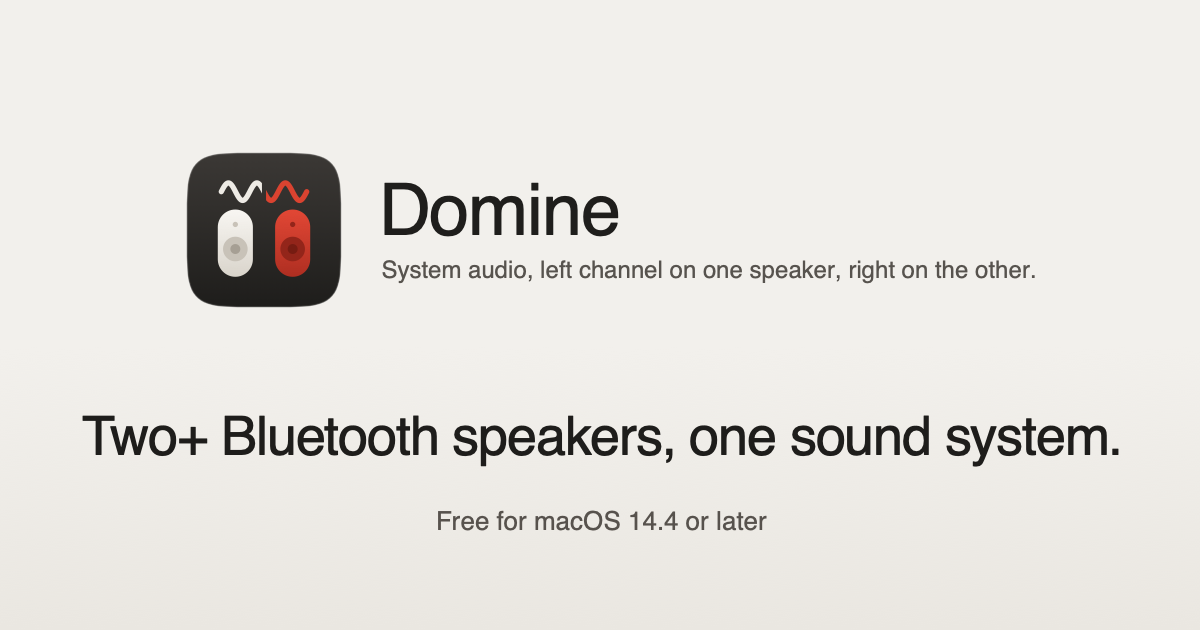
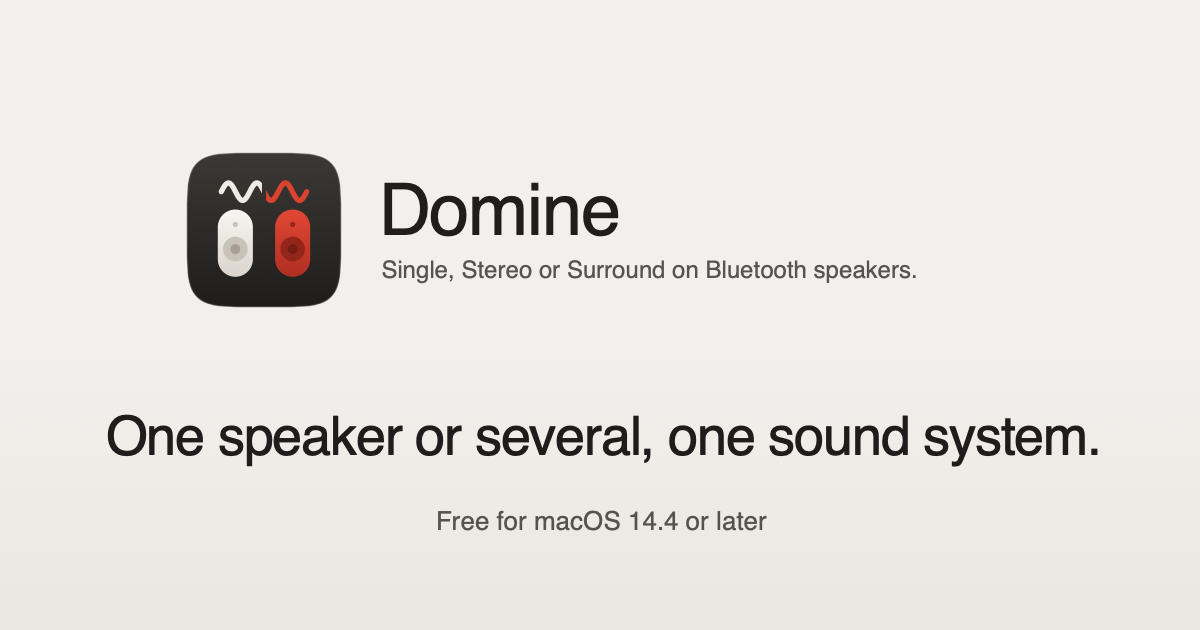
Site: covers Single mode, drops the 16-speaker line, names microphone calibration; preview image to match

Changed region(s): [[0.0617, 0.6333, 0.925, 0.754], [0.3083, 0.3921, 0.8633, 0.4524]]

diff --git a/site/index.html b/site/index.html
@@ -4,22 +4,22 @@
 <meta charset="utf-8">
 <meta name="viewport" content="width=device-width, initial-scale=1">
 <title>Domine</title>
-<meta name="description" content="Turn two or more Bluetooth speakers into one sound system for your Mac. Split audio left and right across two speakers, or place up to 16 around the room for surround.">
+<meta name="description" content="Play your Mac&#39;s audio on Bluetooth speakers: one speaker with volume boost and EQ, a left and right pair, or several around the room for surround.">
 <meta name="color-scheme" content="light dark">
 <link rel="icon" type="image/png" href="favicon.png">
 <link rel="canonical" href="https://ethan-ka.github.io/Domine/">
 <meta property="og:type" content="website">
 <meta property="og:site_name" content="Domine">
-<meta property="og:title" content="Domine: two+ Bluetooth speakers, one sound system">
-<meta property="og:description" content="Turn two or more Bluetooth speakers into one sound system for your Mac. Split audio left and right across two speakers, or place up to 16 around the room for surround.">
+<meta property="og:title" content="Domine: one Bluetooth speaker or several, one sound system">
+<meta property="og:description" content="Play your Mac&#39;s audio on Bluetooth speakers: one speaker with volume boost and EQ, a left and right pair, or several around the room for surround.">
 <meta property="og:url" content="https://ethan-ka.github.io/Domine/">
 <meta property="og:image" content="https://ethan-ka.github.io/Domine/og-image.png">
 <meta property="og:image:width" content="1200">
 <meta property="og:image:height" content="630">
-<meta property="og:image:alt" content="The Domine app icon and name above the line: Two+ Bluetooth speakers, one sound system.">
+<meta property="og:image:alt" content="The Domine app icon and name above the line: One speaker or several, one sound system.">
 <meta name="twitter:card" content="summary_large_image">
-<meta name="twitter:title" content="Domine: two+ Bluetooth speakers, one sound system">
-<meta name="twitter:description" content="Turn two or more Bluetooth speakers into one sound system for your Mac. Split audio left and right across two speakers, or place up to 16 around the room for surround.">
+<meta name="twitter:title" content="Domine: one Bluetooth speaker or several, one sound system">
+<meta name="twitter:description" content="Play your Mac&#39;s audio on Bluetooth speakers: one speaker with volume boost and EQ, a left and right pair, or several around the room for surround.">
 <meta name="twitter:image" content="https://ethan-ka.github.io/Domine/og-image.png">
 <style>
 :root{
@@ -88,8 +88,8 @@ a:focus-visible{outline:3px solid var(--focus); outline-offset:3px; border-radiu
       </div>
       <p class="note">macOS 14.4 or later</p>
       <div class="pitch">
-        <p class="claim">Two+ Bluetooth speakers, one sound system.</p>
-        <p class="sub">Split your Mac's audio left and right across two speakers, or place up to 16 around the room for surround. They stay in sync, and your volume keys control them all.</p>
+        <p class="claim">One Bluetooth speaker or several, one sound system.</p>
+        <p class="sub">Play everything on one speaker with a volume boost and EQ, split left and right across two, or place several around the room for surround. Line them up with the Mac's microphone, and your volume keys control them all.</p>
       </div>
     </div>
   </div>

diff --git a/docs/IDEAS.md b/docs/IDEAS.md
@@ -60,17 +60,15 @@ Everything on the approved list is built and tested:
 
 ## Website (site/index.html)
 
-The page is one screen: logo art, Download and GitHub buttons, a headline and one paragraph. Colours come from the app icon, it uses the system font, and every text pair passes WCAG AA (body 14.8:1, grey text 6.3 to 6.8:1, button text 5.2:1). What it could do better, most valuable first:
+The page is one screen: logo art, Download and GitHub buttons, a headline and one paragraph. Colours come from the app icon, it uses the system font, and every text pair passes WCAG AA (body 14.8:1, grey text 6.3 to 6.8:1, button text 5.2:1). Done 2026-11-11: the headline and description cover Single mode ("One Bluetooth speaker or several, one sound system."), "up to 16" is gone, sync is described by the microphone calibration, and the social preview image matches. The Download button stays on the GitHub releases page on purpose: people trust a GitHub release more than a bare file link.
+
+Still open, most valuable first:
 
 | Idea | Why | Notes |
 | --- | --- | --- |
 | A real screenshot of the main window, light and dark | Nothing on the page shows what the app looks like | Stereo stage with two cards and the meters; swap with `<picture>` like the header art |
-| Say how to open an unsigned build | Releases are development-signed, not notarized, so a first launch hits Gatekeeper and the page never says "right-click, Open" | One line under the buttons. Notarizing (needs a Developer ID) would remove the step |
-| Download the installer directly | The button opens the releases page, one click and a scroll from the file | Also publish each release's installer as `Domine.pkg`, so the button can link `releases/latest/download/Domine.pkg` |
-| Headline that covers Single mode | "Two+ Bluetooth speakers" leaves out one-speaker use | The og-image carries the same line and needs the same change |
+| Say how to open an unsigned build | Releases are development-signed, not notarized, so macOS blocks the installer on first open and the page never says why | macOS 14: right-click, Open. macOS 15 and later: System Settings > Privacy & Security > Open Anyway. Notarizing (needs a Developer ID, $99 a year) removes the step |
 | Say any brand works | The page reads as if only matched speakers work | "Tested with JBL Grip and JBL Go 4" is specific and true |
-| Back the sync claim with the mechanism | "They stay in sync" is a promise with no how | "Line them up with the Mac's microphone in about 15 seconds" (check the timing first) |
-| Be exact about surround size | "Up to 16" is true, but the app warns above 4 Bluetooth speakers because they share one radio | "Up to 16 speakers; more than 4 Bluetooth ones can drop out" |
 | Show the version and what's new | Visitors can't tell if it's maintained | "Version 0.4.0", linked to the release notes |
 | Requirements | Only "macOS 14.4 or later" is listed | Add "Apple silicon and Intel" (the build is universal) |
 | A short privacy note | Domine asks for audio capture, the microphone (calibration only) and optionally Accessibility and an admin password | True facts: audio never leaves the Mac; the only network request is the GitHub update check |
